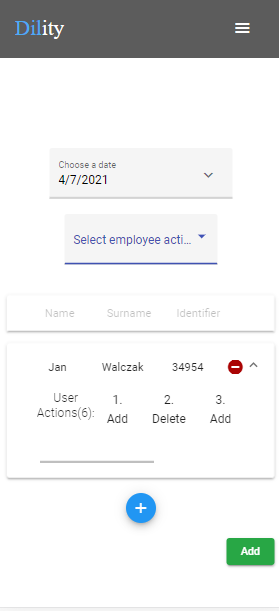
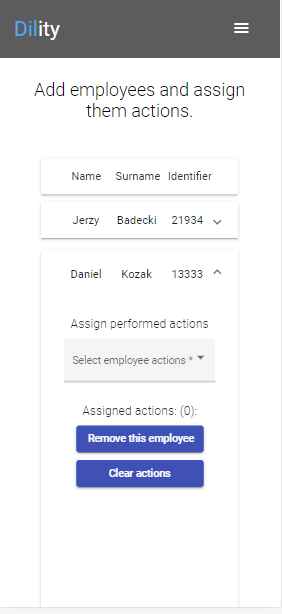
Replaced old screenshots, fixed small css bug

diff --git a/Frontend/src/app/components/add-workday-form/add-workday-form.component.html b/Frontend/src/app/components/add-workday-form/add-workday-form.component.html
@@ -66,7 +66,7 @@
                 </div>
 
                 <div class="col3 panel">
-                    <h3 *ngIf="getUserActionsOfEmployee(employee).actions.length > 0">Click on item to remove</h3>
+                    <h3 *ngIf="getUserActionsOfEmployee(employee).actions.length > 0">Click on action to remove</h3>
                     <div class="actions-list">
                         <mat-list *ngIf="employee" fxLayout="row">
                             <mat-list-item

diff --git a/Frontend/src/app/components/add-workday-form/add-workday-form.component.css b/Frontend/src/app/components/add-workday-form/add-workday-form.component.css
@@ -120,14 +120,10 @@ h2, h1{
 /* mobile */
 @media(max-width: 840px){ 
     .container, .container .panel{
-        width: 95%;
-        padding: 0px;
+        width: 90%;
         font-size: 1rem;
     }
 
-    .container .panel{
-        width: 100%;
-    }
     .extended-panel{
         flex-direction: column;
     }
